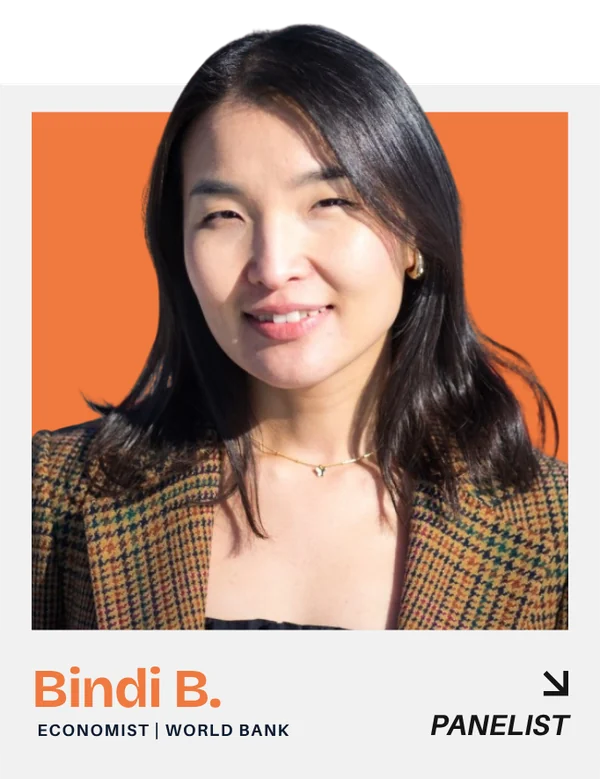
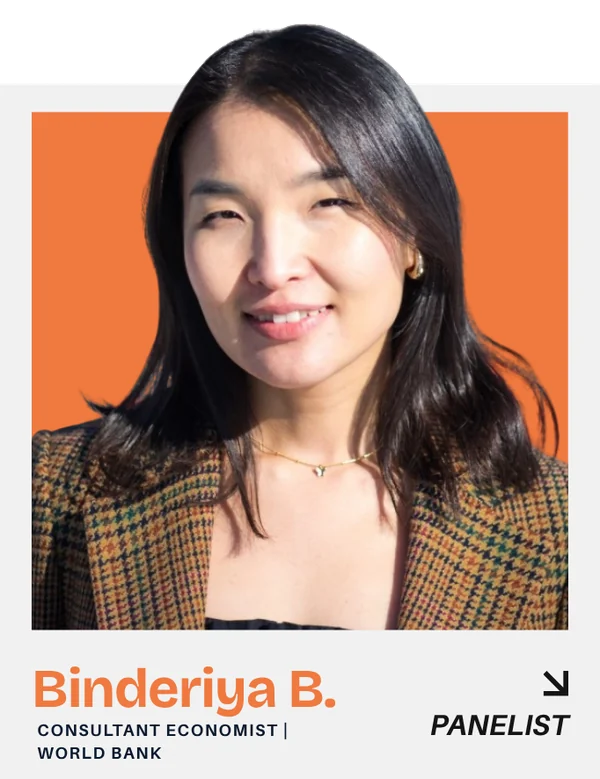
Use Binderiya's full name and her new card
She is "Binderiya B." everywhere now, not "Bindi B." — both schedule
lines, the headshot alts, and the speakers card.

Her re-exported master came flattened onto white rather than transparent
like the rest, so the white is keyed out before the crop and the master
is stored transparent again. Card and schedule thumbnail both rebuilt
from it, and her title on the card is now Consultant Economist.

The cards README picks up the white-background case and, finally, how
faces-2026/ is derived — it was only ever in a commit message before.

Claude-Session: https://claude.ai/code/session_01RxyfAX6zc7pmK82cHkvsg3

Changed region(s): [[0.06, 0.8318, 0.57, 0.9859]]

diff --git a/schedule.html b/schedule.html
@@ -504,9 +504,9 @@
     <div class="session-main">
       <div class="session-title">Panel · Immigrants &amp; Tech</div>
       <div class="session-speakers">Building a career in a foreign country.</div>
-      <div class="session-names"><b>Bindi B.</b>, <b>Namuun P. (mod)</b></div>
+      <div class="session-names"><b>Binderiya B.</b>, <b>Namuun P. (mod)</b></div>
     </div>
-    <div class="session-faces"><img class="session-face" src="assets/photos/Summit-2026/faces-2026/namuun-mod.webp" width="180" height="180" loading="lazy" alt="Namuun P." /><img class="session-face" src="assets/photos/Summit-2026/faces-2026/bindi-guest.webp" width="180" height="180" loading="lazy" alt="Bindi B." /></div>
+    <div class="session-faces"><img class="session-face" src="assets/photos/Summit-2026/faces-2026/namuun-mod.webp" width="180" height="180" loading="lazy" alt="Namuun P." /><img class="session-face" src="assets/photos/Summit-2026/faces-2026/bindi-guest.webp" width="180" height="180" loading="lazy" alt="Binderiya B." /></div>
   </a>
   <div class="schedule-time">2:00 PM</div>
   <a href="#" style="--n:1" class="session t-workshop" data-time="2:00–2:45 PM" data-track="Workshop">
@@ -550,9 +550,9 @@
     <div class="session-main">
       <div class="session-title">Comedy set</div>
       <div class="session-speakers">Unwind with DC's stand-up comedian.</div>
-      <div class="session-names"><b>Bindi B.</b></div>
+      <div class="session-names"><b>Binderiya B.</b></div>
     </div>
-    <div class="session-faces"><img class="session-face" src="assets/photos/Summit-2026/faces-2026/bindi-guest.webp" width="180" height="180" loading="lazy" alt="Bindi B." /></div>
+    <div class="session-faces"><img class="session-face" src="assets/photos/Summit-2026/faces-2026/bindi-guest.webp" width="180" height="180" loading="lazy" alt="Binderiya B." /></div>
   </a>
   <div class="sch-note">bring a card</div>
 </section>

diff --git a/speakers.html b/speakers.html
@@ -309,7 +309,7 @@
     </div>
 
     <div class="sp-card" style="--rot:-1.2deg;--tilt:-2.5deg;--tagc:var(--hi);">
-      <div class="sp-shot"><img src="assets/photos/Summit-2026/cards-2026/bindi-guest.webp" width="600" height="779" loading="lazy" alt="Bindi B. — Economist, World Bank. Panelist." /></div>
+      <div class="sp-shot"><img src="assets/photos/Summit-2026/cards-2026/bindi-guest.webp" width="600" height="779" loading="lazy" alt="Binderiya B. — Consultant Economist, World Bank. Panelist." /></div>
       <div class="sp-body">
         <button class="sp-toggle" type="button" aria-expanded="false" aria-controls="bio-bindi">
           <span class="sp-tag">design with a spine</span><span class="sp-caret" aria-hidden="true"></span>

diff --git a/assets/photos/Summit-2026/cards-2026/README.md b/assets/photos/Summit-2026/cards-2026/README.md
@@ -35,6 +35,37 @@ for f in glob.glob("assets/photos/Summit-2026/people cards '26/*.png"):
 If a future card is composed differently and the crop clips it, check the new
 master's alpha bounding box before trusting `BOX`.
 
+A master can also arrive flattened onto white instead of transparent — the
+September re-export of `bindi-guest.png` did. The frame is `#F1F1F1`, so pure
+white keys out cleanly; flood fill it from a corner before deriving anything,
+and re-save the master transparent so the next run does not have to:
+
+```python
+from PIL import Image, ImageDraw
+import numpy as np
+
+im = Image.open(SRC).convert('RGB')
+key = im.copy()
+ImageDraw.floodfill(key, (0, 0), (255, 0, 255), thresh=8)
+alpha = np.where((np.array(key) == (255, 0, 255)).all(2), 0, 255).astype('uint8')
+Image.fromarray(np.dstack([np.array(im), alpha]), 'RGBA').save(SRC)
+```
+
+## The schedule thumbnails
+
+`faces-2026/` holds the small round-ish heads on `schedule.html`. They are cut
+from the 600px card, not from the master: box **(0, 40, 600, 640)**, resized to
+**180×180**, WebP quality 86. That keeps a sliver of the cream frame down each
+side and the head still breaking out of its top edge, which is what makes them
+read as the same object as the big cards. Whenever a card is regenerated, redo
+its face too:
+
+```python
+face = card.crop((0, 40, 600, 640)).resize((180, 180), Image.LANCZOS)
+face.save('assets/photos/Summit-2026/faces-2026/' + name + '.webp',
+          'WEBP', quality=86, method=6)
+```
+
 ## Where each one is used
 
 `speakers.html` uses the five `-guest` and three `-mod` cards. The three
